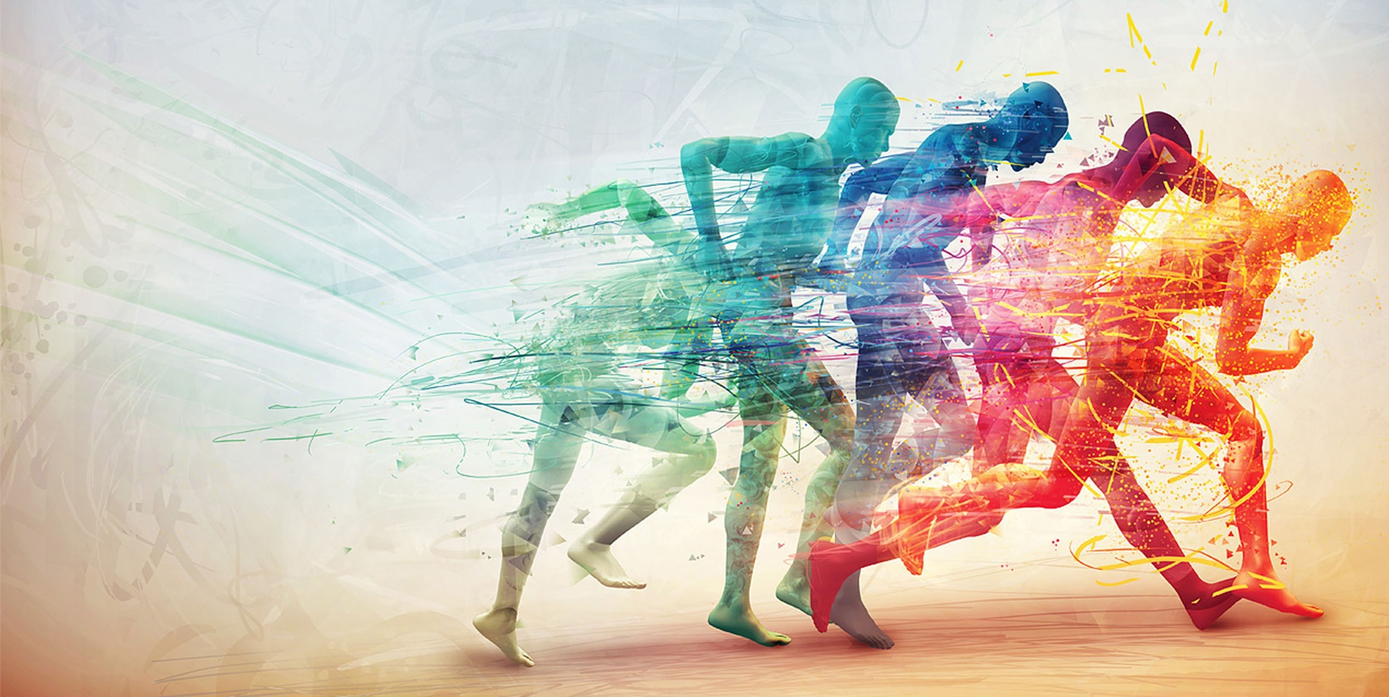
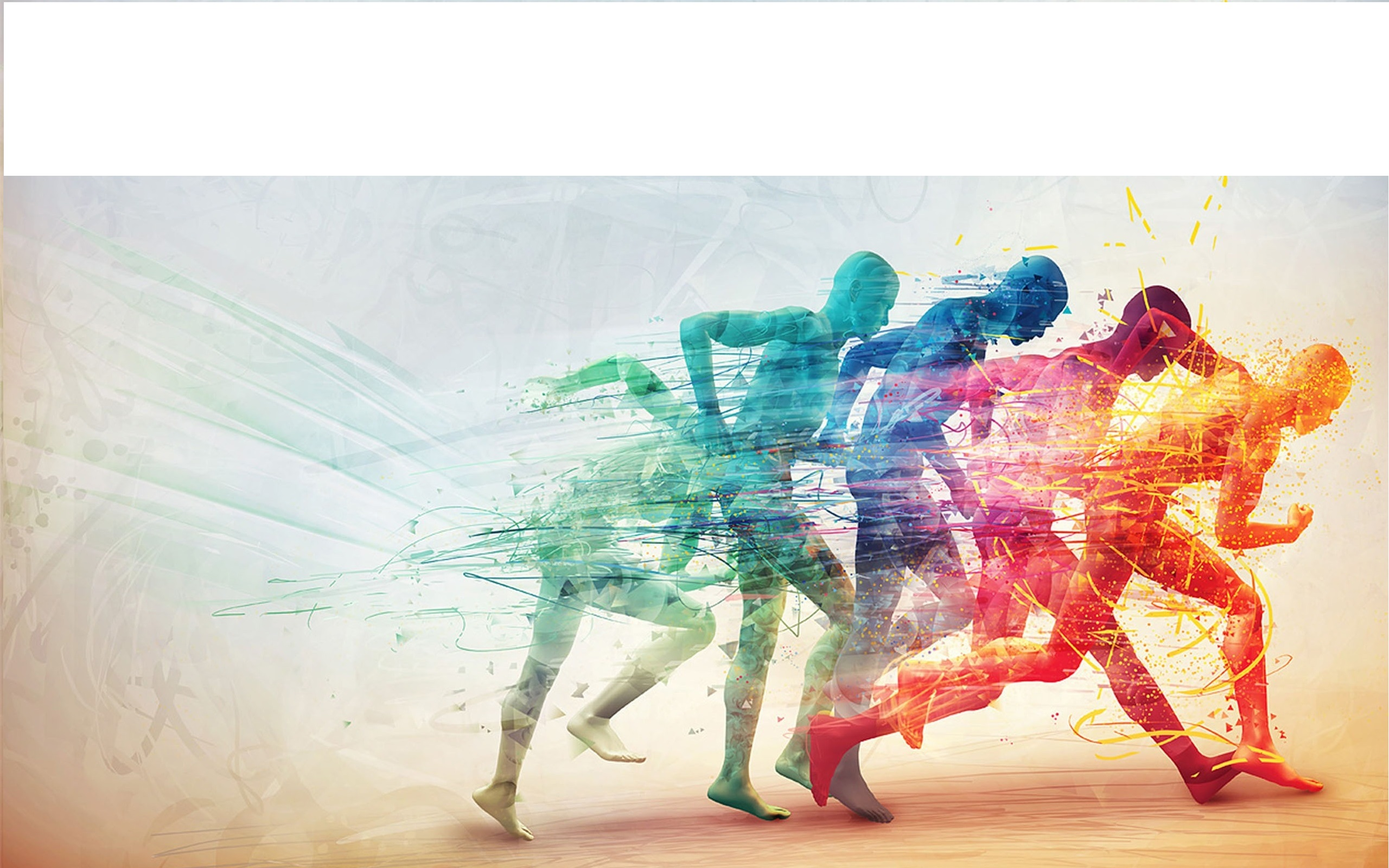
Marquee removed, history image changed

diff --git a/history.html b/history.html
@@ -21,7 +21,7 @@
     height: 100%;
   }
   
-  </style>-->
+  </style>
 </head>
 <body>
 	<ul id='dropdown1' class='dropdown-content'>
@@ -207,7 +207,7 @@
 <div class="slider hi">
     <ul class="slides">
       <li>
-        <img src="media/History/3.jpg">
+        <img src="media/History/2.jpg">
       </li>
     </ul>
   </div>

diff --git a/index.php b/index.php
@@ -107,7 +107,7 @@
   </div>
 <div class="container">
   	<div class="row">
-  	<p class="center sha white-text"><marquee>2016 Registrations open. Check out the New Registration button below.</marquee></p>
+  	<p class="center sha white-text">2016 Registrations open. Check out the New Registration button below.</p>
   	</div>
   </div>
   <div class="container">
